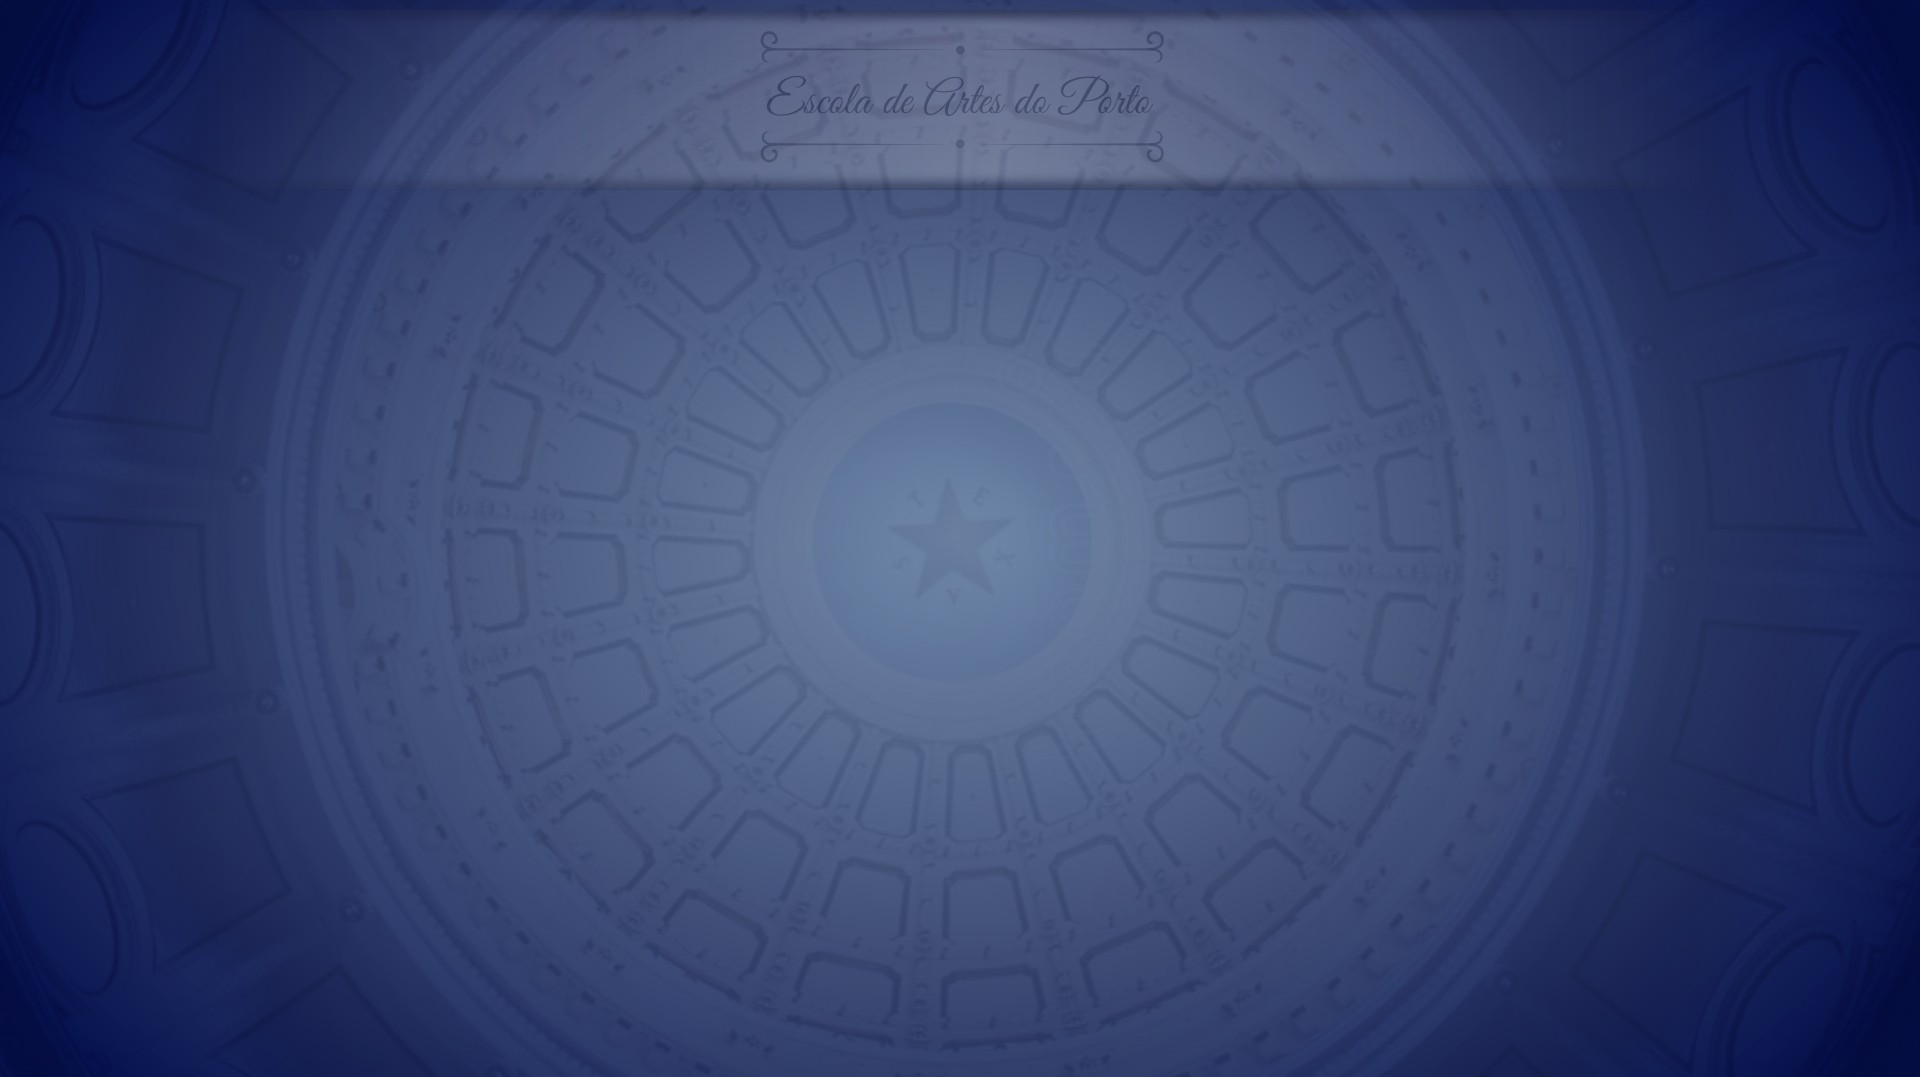
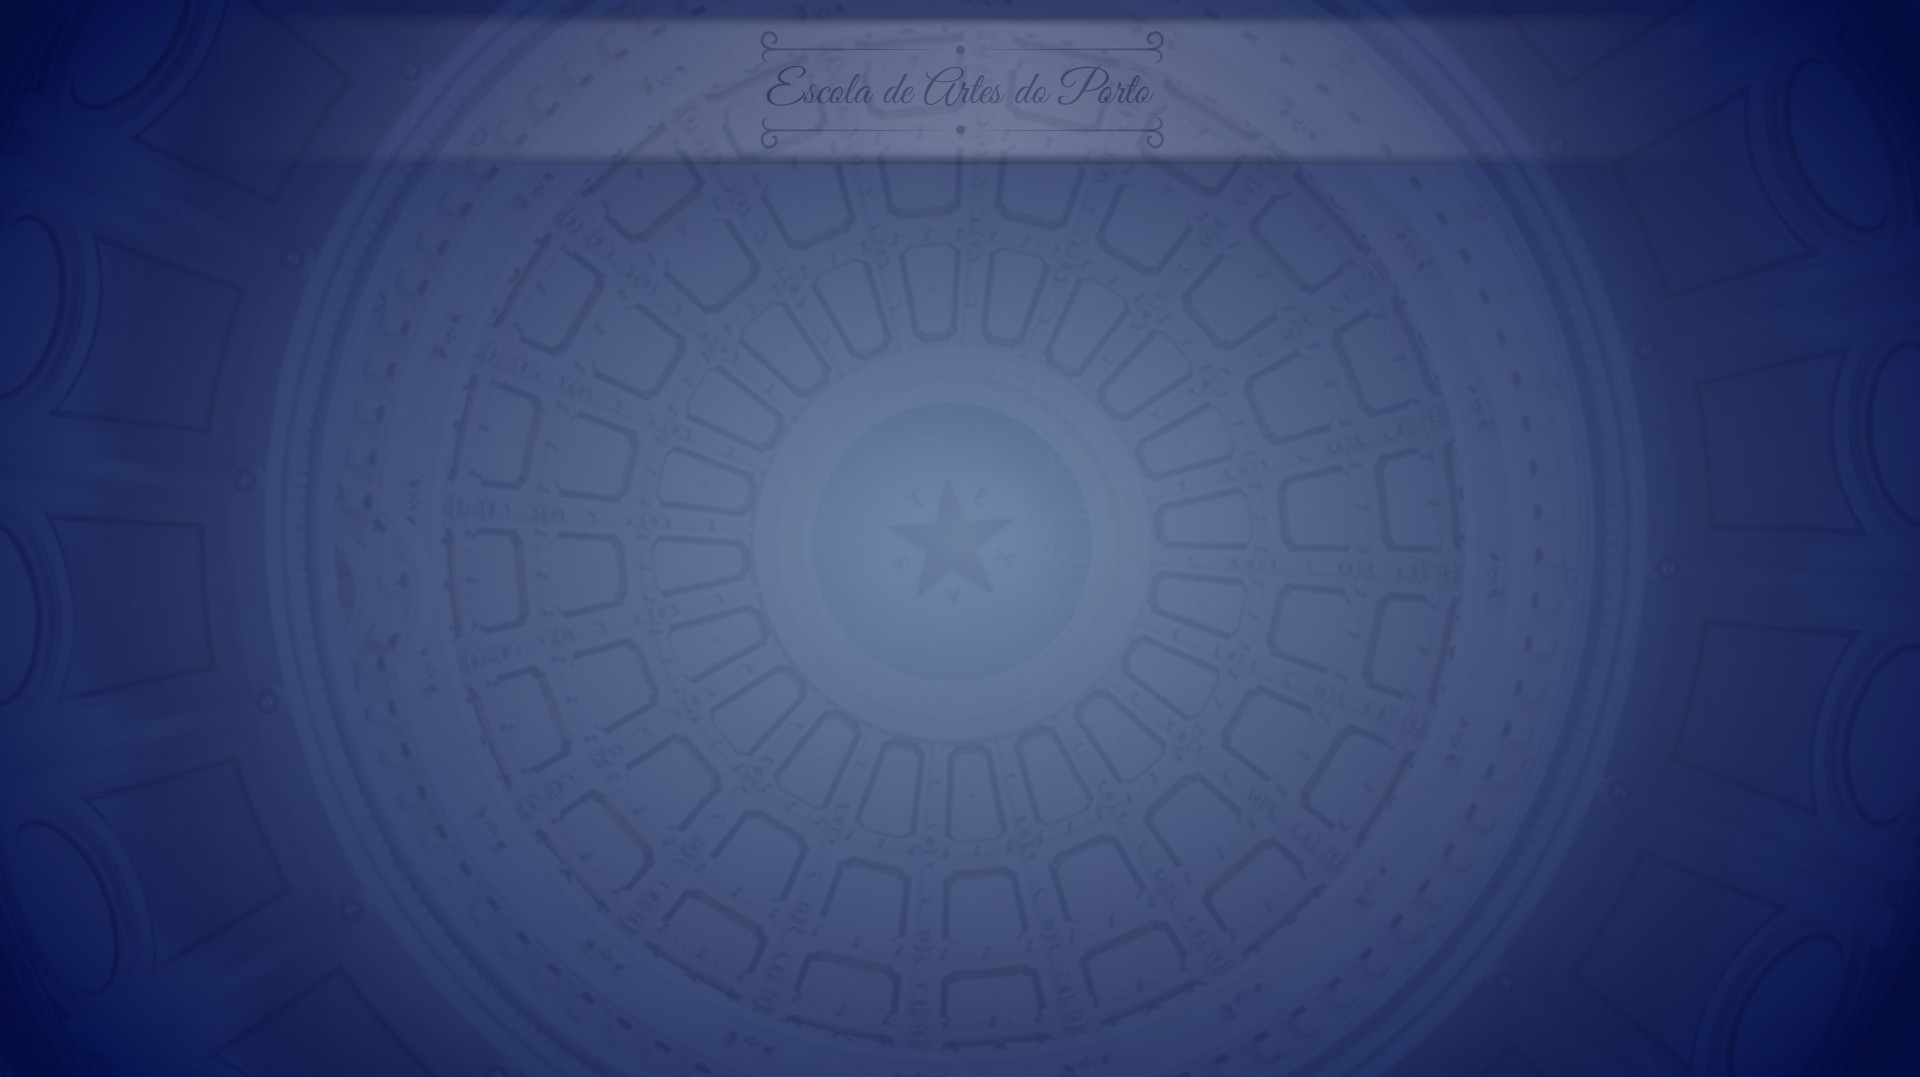
Layout change
Layout change

Changed region(s): [[0.3125, 0.0613, 0.7188, 0.1838]]

diff --git a/src/main/resources/static/css/estilo.css b/src/main/resources/static/css/estilo.css
@@ -27,7 +27,7 @@ body {
     background-position: center;
     /*background-image: radial-gradient(rgba(0, 54, 116, 0.5), rgba(1, 10, 65, 1));*/
     height: 100vh;
-    margin-top: 200px;
+    margin-top: 140px;
 
 }
 

diff --git a/target/classes/static/css/estilo.css b/target/classes/static/css/estilo.css
@@ -27,7 +27,7 @@ body {
     background-position: center;
     /*background-image: radial-gradient(rgba(0, 54, 116, 0.5), rgba(1, 10, 65, 1));*/
     height: 100vh;
-    margin-top: 200px;
+    margin-top: 140px;
 
 }
 
